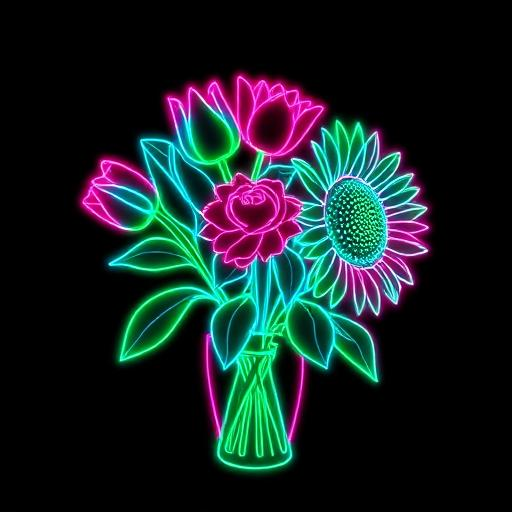
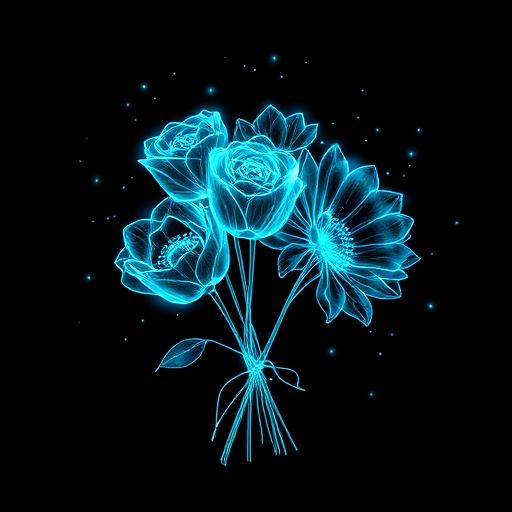
Changes

diff --git a/src/components/mission-control/ChatThread.tsx b/src/components/mission-control/ChatThread.tsx
@@ -178,7 +178,7 @@ const ChatThread = ({ onStateChange, onMessageCount }: ChatThreadProps) => {
       <div className="flex-1 min-h-0 overflow-y-auto px-4 py-4 space-y-4 scrollbar-thin">
         {messages.length === 0 && (
           <div className="flex flex-col items-center justify-center h-full text-muted-foreground gap-3">
-            <img src={bouquetIcon} alt="HBMaster Boeket" className="w-24 h-24 select-none animate-fade-in drop-shadow-[0_0_15px_rgba(0,255,200,0.4)]" />
+            <img src={bouquetIcon} alt="HBMaster Boeket" className="w-24 h-24 select-none animate-fade-in drop-shadow-[0_0_20px_rgba(0,220,255,0.5)] opacity-80" />
             <p className="text-sm font-mono">Start een gesprek met HBMaster</p>
             <div className="flex flex-wrap gap-2 mt-2 max-w-md justify-center">
               {["Wat is de huidige productie status?", "Analyseer de APU trends", "Hoeveel orders staan er vandaag?"].map(q => (
